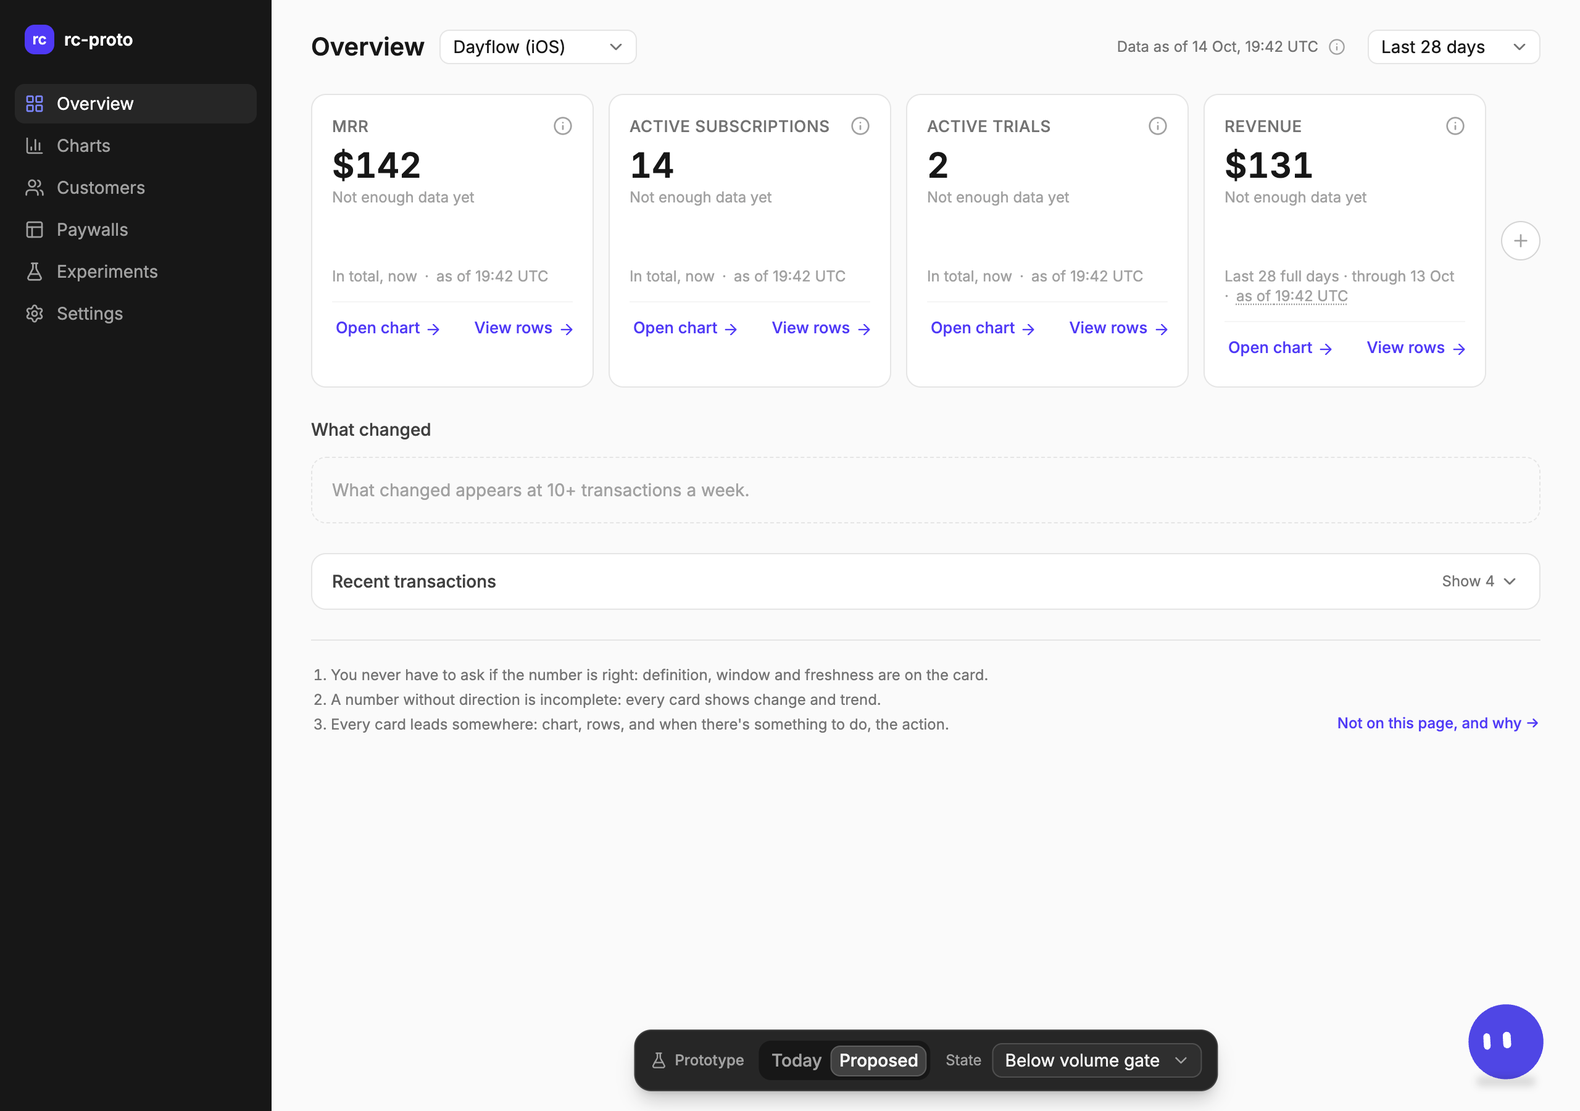
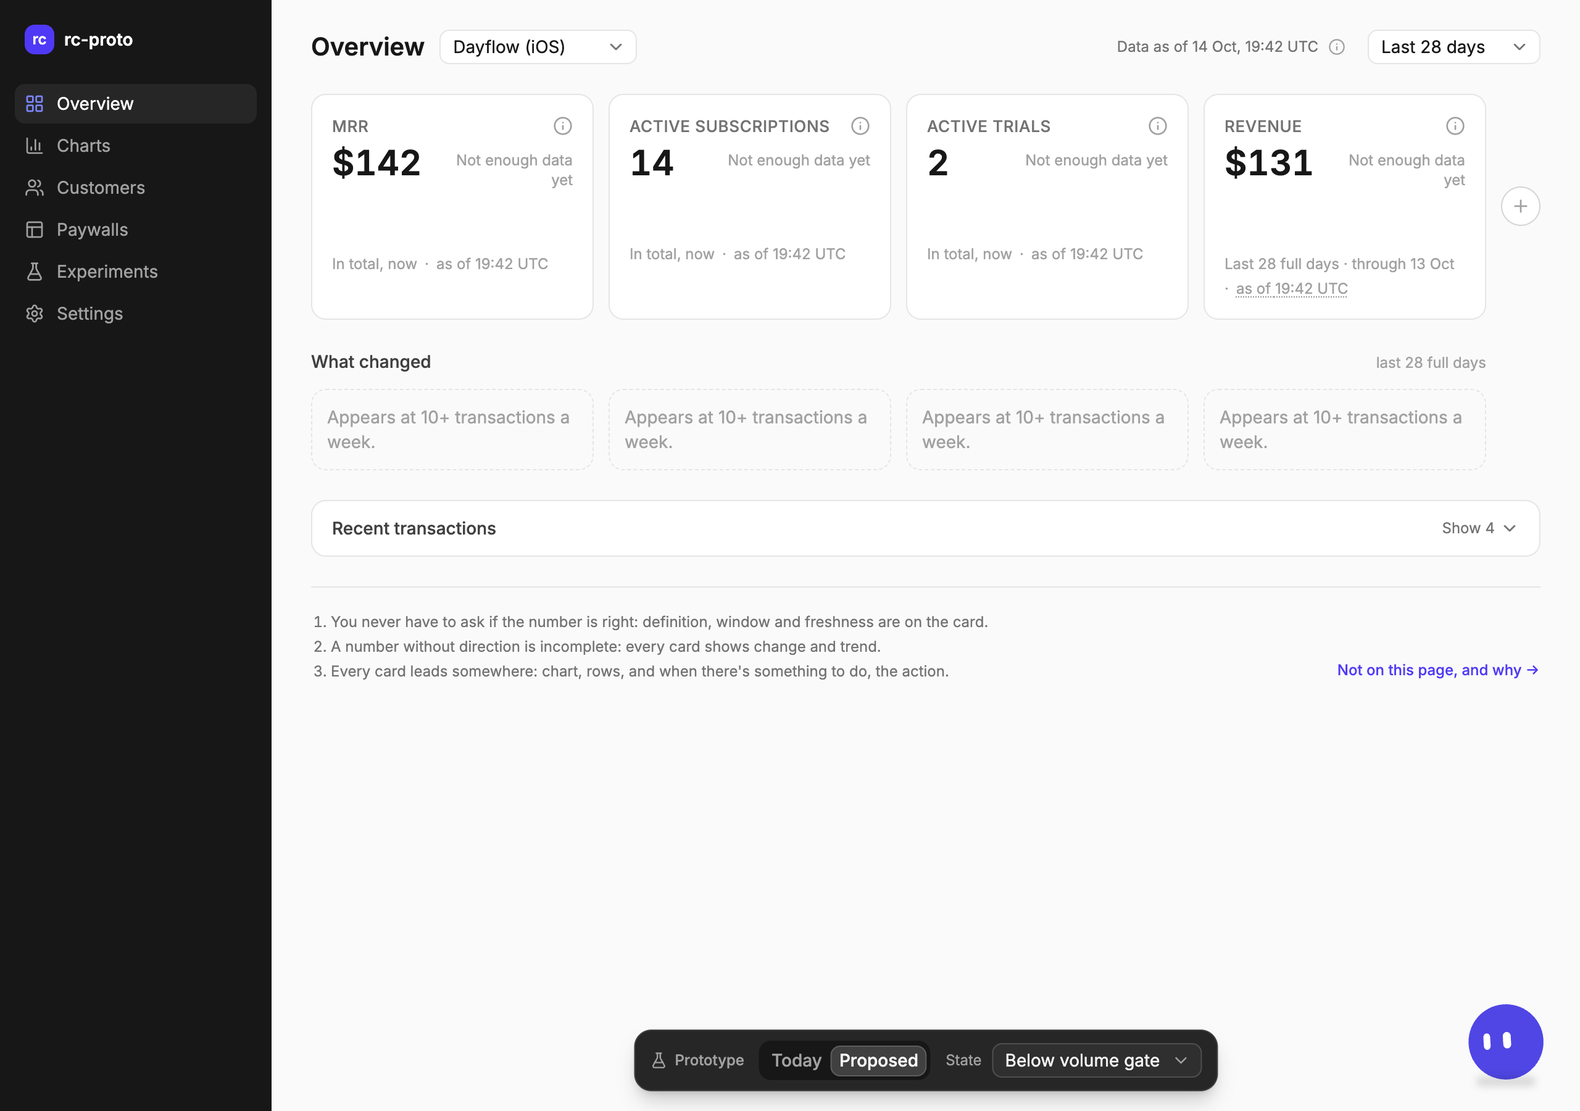
Proposed visual pass: What changed as four tiles under the cards, lighter KPI cards

diff --git a/src/components/Sections.tsx b/src/components/Sections.tsx
@@ -1,8 +1,8 @@
 import { useState } from "react";
-import { ArrowRight, BookOpen, ChevronDown, ChevronRight, CircleCheck, Circle, Sparkles, TrendingDown, TrendingUp } from "lucide-react";
-import { Badge } from "@/components/ui/badge";
+import { ArrowDown, ArrowRight, ArrowUp, BookOpen, ChevronDown, ChevronRight, CircleCheck, Circle, Minus, Sparkles } from "lucide-react";
 import { Button } from "@/components/ui/button";
 import { Card } from "@/components/ui/card";
+import { Tooltip, TooltipContent, TooltipTrigger } from "@/components/ui/tooltip";
 import { Collapsible, CollapsibleContent, CollapsibleTrigger } from "@/components/ui/collapsible";
 import { RicoAvatar } from "@/components/Rico";
 import { cn } from "@/lib/utils";
@@ -15,62 +15,79 @@ export function SectionTitle({ children }: { children: React.ReactNode }) {
   return <h2 className="text-sm font-medium text-neutral-700">{children}</h2>;
 }
 
-const ICONS = { up: TrendingUp, down: TrendingDown, book: BookOpen } as const;
 
-type ChangeItem = Overview["what_changed"][number];
+export type ChangeItem = Overview["what_changed"][number];
 
-// Two tiles side by side under the cards; anything past two waits behind "N more".
-// Each tile: tag, sentence, and bottom-right the action plus "Ask Rico why".
+const DIRECTION = {
+  up: { Icon: ArrowUp, tone: "text-emerald-600" },
+  down: { Icon: ArrowDown, tone: "text-rose-600" },
+  flat: { Icon: Minus, tone: "text-neutral-500" },
+  info: { Icon: BookOpen, tone: "text-neutral-500" },
+} as const;
+
+const tile = "rounded-[12px] border border-neutral-200 bg-white p-3";
+
+// One row of four compact tiles under the four default cards, one per card, in the same grid
+// (the caller adds the (+) spacer so the columns line up). Icon + tag, a sentence of at most
+// two lines, then the action link and Rico as the "Ask Rico why" button.
 export function WhatChanged({
-  data, onAction, onAskRico,
-}: { data: Overview; onAction: (item: ChangeItem) => void; onAskRico: (item: ChangeItem) => void }) {
-  const [expanded, setExpanded] = useState(false);
+  data, cardIds, labelFor, onAction, onAskRico,
+}: {
+  data: Overview;
+  cardIds: string[];
+  labelFor: (cardId: string) => string;
+  onAction: (item: ChangeItem) => void;
+  onAskRico: (item: ChangeItem) => void;
+}) {
   if (data.state === "new_project") return null;
   const gate = data.volume_gate;
   const gated = gate.current < gate.threshold_tx_per_week;
-  const shown = expanded ? data.what_changed : data.what_changed.slice(0, 2);
-  const more = data.what_changed.length - shown.length;
+  const byCard = new Map(data.what_changed.map((w) => [w.card_id, w]));
   return (
     <section className="flex flex-col gap-3" aria-labelledby="what-changed">
-      <SectionTitle><span id="what-changed">What changed</span></SectionTitle>
-      {gated ? (
-        <Card className={cn(panel, "border-dashed bg-transparent p-4")}>
-          <p className="text-sm text-neutral-400">What changed appears at {gate.threshold_tx_per_week}+ transactions a week.</p>
-        </Card>
-      ) : (
-        <>
-          <div className="grid grid-cols-1 gap-3 md:grid-cols-2">
-            {shown.map((item) => {
-              const Icon = ICONS[item.icon as keyof typeof ICONS];
-              const business = item.kind === "business";
-              return (
-                <Card key={item.text} className={cn(panel, "gap-3 p-4")}>
-                  <div className="flex items-center justify-between">
-                    <Icon className={cn("size-4", item.icon === "up" ? "text-emerald-600" : item.icon === "down" ? "text-rose-600" : "text-neutral-500")} />
-                    <Badge className={business ? "bg-indigo-50 text-indigo-700" : "bg-neutral-100 text-neutral-700"}>
-                      {business ? "Business" : "Definition / data"}
-                    </Badge>
-                  </div>
-                  <p className="flex-1 text-sm text-neutral-800">{item.text}</p>
-                  <div className="flex flex-wrap items-center justify-end gap-2">
-                    <Button variant="ghost" size="sm" className="text-neutral-600" onClick={() => onAskRico(item)}>
-                      <RicoAvatar size={16} /> Ask Rico why
-                    </Button>
-                    <Button variant="outline" size="sm" className="text-indigo-700" onClick={() => onAction(item)}>
-                      {item.link.label} <ArrowRight />
-                    </Button>
-                  </div>
-                </Card>
-              );
-            })}
-          </div>
-          {more > 0 && (
-            <button onClick={() => setExpanded(true)} className="self-start text-sm font-medium text-indigo-600 hover:underline">
-              {more} more
-            </button>
-          )}
-        </>
-      )}
+      <div className="flex items-baseline justify-between gap-3">
+        <SectionTitle><span id="what-changed">What changed</span></SectionTitle>
+        <span className="text-xs text-neutral-400">last 28 full days</span>
+      </div>
+      <div className="grid grid-cols-1 gap-3 md:grid-cols-2 lg:grid-cols-4">
+        {cardIds.map((id) => {
+          const item = byCard.get(id);
+          if (gated || !item) {
+            return (
+              <div key={id} className={cn(tile, "border-dashed bg-transparent")}>
+                <p className="text-sm text-neutral-400">Appears at {gate.threshold_tx_per_week}+ transactions a week.</p>
+              </div>
+            );
+          }
+          const { Icon, tone } = DIRECTION[item.direction as keyof typeof DIRECTION];
+          const business = item.kind === "business";
+          return (
+            <article key={id} aria-label={`${labelFor(id)}: ${item.text}`} className={cn(tile, "flex flex-col gap-1 transition-colors hover:border-neutral-300")}>
+              <div className="flex items-center justify-between">
+                <Icon className={cn("size-4", tone)} />
+                <span className={cn("rounded-full px-2 py-0.5 text-[11px] leading-none font-medium", business ? "bg-indigo-50 text-indigo-700" : "bg-neutral-100 text-neutral-700")}>
+                  {business ? "Business" : "Definition"}
+                </span>
+              </div>
+              <p className="line-clamp-2 text-sm leading-snug text-neutral-800">{item.text}</p>
+              <div className="mt-auto flex items-center justify-between gap-2">
+                <button onClick={() => onAction(item)} className="flex items-center gap-1 text-[13px] font-medium text-indigo-600 hover:underline">
+                  {item.action.label} <ArrowRight className="size-3.5" />
+                </button>
+                <Tooltip>
+                  <TooltipTrigger
+                    render={<button onClick={() => onAskRico(item)} aria-label="Ask Rico why" />}
+                    className="grid size-6 shrink-0 place-items-center rounded-full transition-transform hover:scale-110 focus-visible:ring-2 focus-visible:ring-indigo-300 focus-visible:outline-none"
+                  >
+                    <RicoAvatar size={24} />
+                  </TooltipTrigger>
+                  <TooltipContent>Ask Rico why</TooltipContent>
+                </Tooltip>
+              </div>
+            </article>
+          );
+        })}
+      </div>
     </section>
   );
 }

diff --git a/src/components/MetricCard.tsx b/src/components/MetricCard.tsx
@@ -1,13 +1,12 @@
-import { ArrowDownRight, ArrowRight, ArrowUpRight, Info, X } from "lucide-react";
+import { ArrowRight, Info, Minus, Triangle, X } from "lucide-react";
 import { Card } from "@/components/ui/card";
 import { Badge } from "@/components/ui/badge";
-import { Button } from "@/components/ui/button";
 import { Popover, PopoverContent, PopoverTrigger } from "@/components/ui/popover";
 import { Tooltip, TooltipContent, TooltipTrigger } from "@/components/ui/tooltip";
 import { Separator } from "@/components/ui/separator";
 import { Sparkline } from "@/components/Sparkline";
 import { cn } from "@/lib/utils";
-import { formatDelta, formatValue, presetDays, timeUtc } from "@/lib/format";
+import { formatValue, presetDays, timeUtc } from "@/lib/format";
 import type { CardData, Preset } from "@/types";
 
 type Props = {
@@ -46,7 +45,7 @@ export function MetricCard({ card, preset, window, notes, onRemove, asOf, gated,
       tabIndex={0}
       onClick={onOpenChart}
       onKeyDown={(e) => e.key === "Enter" && onOpenChart()}
-      className="relative cursor-pointer gap-0 rounded-[12px] border border-neutral-200 bg-white p-4 shadow-none ring-0 hover:border-neutral-300 focus-visible:outline-2 focus-visible:outline-indigo-600"
+      className="group/metric relative cursor-pointer gap-0 rounded-[12px] border border-neutral-200 bg-white p-4 shadow-none ring-0 hover:border-neutral-300 focus-visible:outline-2 focus-visible:outline-indigo-600"
     >
       {sample && !empty && (
         <span aria-hidden className="pointer-events-none absolute inset-0 flex items-center justify-center text-5xl font-semibold tracking-widest text-neutral-900/[0.04] uppercase select-none -rotate-12">
@@ -96,31 +95,35 @@ export function MetricCard({ card, preset, window, notes, onRemove, asOf, gated,
         </div>
       </div>
 
-      {/* Number, then the delta on its own line: four cards to a row leave no room side by side. */}
-      <div className="mt-2 flex flex-col gap-1">
+      {/* Number left, delta chip right on the same baseline; "vs prev" under the chip. */}
+      <div className="mt-1.5 flex items-start justify-between gap-2">
         <span className={cn("text-[28px] leading-none font-semibold tabular-nums", empty ? "text-neutral-300" : "text-neutral-900")}>
           {empty ? "—" : formatValue(p.value, card.unit)}
         </span>
         {empty ? (
-          <span className="text-xs text-neutral-400">No data yet</span>
+          <span className="pt-1 text-xs text-neutral-400">No data yet</span>
         ) : gated ? (
-          <span className="text-xs text-neutral-400">Not enough data yet</span>
+          <span className="pt-1 text-right text-xs text-neutral-400">Not enough data yet</span>
         ) : (
-          <span className={cn("flex items-center gap-0.5 text-[13px] font-medium whitespace-nowrap tabular-nums", tone)}>
-            {up ? <ArrowUpRight className="size-3.5" /> : down ? <ArrowDownRight className="size-3.5" /> : null}
-            {formatDelta(p.delta_pct)}
-            <span className="ml-1 font-normal text-neutral-400">vs prev {presetDays[preset]}d</span>
+          <span className="flex shrink-0 flex-col items-end pt-0.5">
+            <span className={cn("flex items-center gap-0.5 text-[13px] leading-none font-medium whitespace-nowrap tabular-nums", tone)}>
+              {up ? <Triangle className="size-2.5 fill-current" /> : down ? <Triangle className="size-2.5 rotate-180 fill-current" /> : <Minus className="size-3" />}
+              {Math.abs(p.delta_pct).toFixed(1)}%
+            </span>
+            <span className="mt-1 text-[11px] leading-none whitespace-nowrap text-neutral-400">vs prev {presetDays[preset]}d</span>
           </span>
         )}
       </div>
 
       {!empty && (
         <>
-          <div className={cn("mt-3 h-7", tone)}>
-            {!gated && <Sparkline points={p.sparkline} drawIn={sample} className="h-7 w-full" />}
+          <div className={cn("mt-2 h-9", tone)}>
+            {!gated && <Sparkline points={p.sparkline} drawIn={sample} className="h-9 w-full" />}
           </div>
 
-          <div className="mt-2 flex flex-wrap items-center gap-x-1.5 text-xs text-neutral-400">
+          {/* One muted line; on hover or focus the chart/rows links fade in over its right side.
+              Devices without hover keep the links visible, in the flow under the line. */}
+          <div className="relative mt-2 flex flex-wrap items-center gap-x-1.5 gap-y-1 text-xs text-neutral-400">
             <span>{window}</span>
             <span aria-hidden>·</span>
             {cached ? (
@@ -135,15 +138,20 @@ export function MetricCard({ card, preset, window, notes, onRemove, asOf, gated,
             ) : (
               <span>as of {timeUtc(asOf)}</span>
             )}
-          </div>
-
-          <div className="mt-3 flex gap-1 border-t border-neutral-100 pt-2">
-            <Button variant="ghost" size="sm" className="-ml-2 text-indigo-600 hover:text-indigo-700" onClick={(e) => { stop(e); onOpenChart(); }}>
-              Open chart <ArrowRight />
-            </Button>
-            <Button variant="ghost" size="sm" className="text-indigo-600 hover:text-indigo-700" onClick={(e) => { stop(e); onOpenRows(); }}>
-              View rows <ArrowRight />
-            </Button>
+            <span
+              className={cn(
+                "flex gap-3 bg-white pl-3 text-xs font-medium transition-opacity duration-150",
+                "absolute right-0 bottom-0 opacity-0 group-focus-within/metric:opacity-100 group-hover/metric:opacity-100",
+                "[@media(hover:none)]:static [@media(hover:none)]:basis-full [@media(hover:none)]:pl-0 [@media(hover:none)]:opacity-100",
+              )}
+            >
+              <button className="flex items-center gap-0.5 text-indigo-600 hover:underline" onClick={(e) => { stop(e); onOpenChart(); }}>
+                Open chart <ArrowRight className="size-3" />
+              </button>
+              <button className="flex items-center gap-0.5 text-indigo-600 hover:underline" onClick={(e) => { stop(e); onOpenRows(); }}>
+                View rows <ArrowRight className="size-3" />
+              </button>
+            </span>
           </div>
         </>
       )}

diff --git a/src/App.tsx b/src/App.tsx
@@ -43,7 +43,6 @@ export default function App() {
   const [explainerOpen, setExplainerOpen] = useState(false);
   const [experimentOpen, setExperimentOpen] = useState(false);
   const [extra, setExtra] = useState<OptionalCardId[]>([]);
-  const [ricoAsk, setRicoAsk] = useState<{ text: string; n: number } | null>(null);
   const [ricoOpen, setRicoOpen] = useState(false);
   const [ricoDraft, setRicoDraft] = useState("");
   const [showSample, setShowSample] = useState(false);
@@ -90,8 +89,10 @@ export default function App() {
     if (extra.length >= MAX_EXTRA) return toast(`Up to ${MAX_EXTRA} extra cards`);
     setExtra([...extra, id]);
   };
+  const labelFor = (id: string) => allCards.find((c) => c.id === id)?.label ?? id;
+  // "Ask Rico why" pre-fills the chat input with the tile's sentence; the user sends it.
   const askRico = (text: string) => {
-    setRicoAsk((a) => ({ text, n: (a?.n ?? 0) + 1 }));
+    setRicoDraft(text);
     setRicoOpen(true);
   };
 
@@ -193,15 +194,23 @@ export default function App() {
                   <AddCard variant="row" added={extra} onAdd={addCard} className="md:hidden" />
                 </section>
 
-                <WhatChanged
-                  data={data}
-                  onAction={(item) => {
-                    if (item.link.action === "experiment") return setExperimentOpen(true);
-                    if (item.link.action === "explainer" || !item.link.metric) return setExplainerOpen(true);
-                    openMetric(item.link.metric);
-                  }}
-                  onAskRico={(item) => askRico(item.text)}
-                />
+                {/* Same columns as the cards: an empty 32px slot stands in for (+) so tiles sit under their cards. */}
+                <div className="flex gap-3">
+                  <div className="min-w-0 flex-1">
+                    <WhatChanged
+                      data={data}
+                      cardIds={data.cards.map((c) => c.id)}
+                      labelFor={labelFor}
+                      onAction={(item) => {
+                        if (item.action.type === "experiment") return setExperimentOpen(true);
+                        if (item.action.type === "explainer") return setExplainerOpen(true);
+                        openMetric(labelFor(item.card_id));
+                      }}
+                      onAskRico={(item) => askRico(`${labelFor(item.card_id)}: ${item.text}`)}
+                    />
+                  </div>
+                  <div aria-hidden className="hidden w-8 shrink-0 md:block" />
+                </div>
 
                 <RecentTransactions rows={data.recent_transactions} collapsible />
                 <DesignRules onNotOnPage={() => setNotOnPageOpen(true)} />
@@ -245,7 +254,6 @@ export default function App() {
         onDraftChange={setRicoDraft}
         onOpenChart={(metric) => { setRicoOpen(false); openMetric(metric); }}
         onAddCard={(id) => { setRicoOpen(false); addCard(id); }}
-        ask={ricoAsk}
       />
       <SetupDrawer
         step={setupSteps[setupIndex]}

diff --git a/src/components/Drawers.tsx b/src/components/Drawers.tsx
@@ -50,12 +50,10 @@ function reply(q: string): Message {
 }
 
 export function RicoDrawer({
-  open, onOpenChange, draft, onDraftChange, onOpenChart, onAddCard, ask,
+  open, onOpenChange, draft, onDraftChange, onOpenChart, onAddCard,
 }: {
   open: boolean; onOpenChange: (o: boolean) => void; draft: string; onDraftChange: (v: string) => void;
   onOpenChart: (metric: string) => void; onAddCard: (id: OptionalCardId) => void;
-  /** A question sent from elsewhere on the page ("Ask Rico why"); `n` changes on every ask. */
-  ask?: { text: string; n: number } | null;
 }) {
   const [messages, setMessages] = useState<Message[]>([
     { from: "rico", text: "Hi, I'm Rico. Ask me about the numbers on this page, what changed, or your business." },
@@ -77,11 +75,6 @@ export function RicoDrawer({
     setTyping(true);
     timers.current.push(window.setTimeout(() => { setMessages((m) => [...m, reply(q)]); setTyping(false); }, 600));
   };
-
-  useEffect(() => {
-    if (ask) send(ask.text);
-    // eslint-disable-next-line react-hooks/exhaustive-deps
-  }, [ask?.n]);
 
   // iMessage: Rico's avatar sits by the last bubble of each of its runs; that bubble gets a tail.
   const lastOfRun = (i: number) => messages[i + 1]?.from !== messages[i].from && !(typing && i === messages.length - 1 && messages[i].from === "rico");

diff --git a/src/lib/format.ts b/src/lib/format.ts
@@ -8,7 +8,6 @@ export const formatValue = (value: number, unit: string) =>
   unit === "USD" ? usd.format(value) : unit === "percent" ? `${value}%` : count.format(value);
 export const formatMoney = (value: number) => usdCents.format(value);
 
-export const formatDelta = (pct: number) => `${pct > 0 ? "+" : pct < 0 ? "−" : "±"}${Math.abs(pct).toFixed(1)}%`;
 
 export const presetDays: Record<Preset, number> = { "7d": 7, "28d": 28, "90d": 90 };
 export const periodLabel = (p: Preset) => `Last ${presetDays[p]} days`;

diff --git a/README.md b/README.md
@@ -28,8 +28,10 @@ Push to `main` deploys to Netlify.
   phone), each carrying its own window ("In total, now" / "Last 28 full days · through
   13 Oct"). **(+)** at the row's end (a dashed "Add a card" row on a phone) adds up to two of
   New customers, Active customers, Trial conversion, Churn, Realized LTV, each removable,
-  in memory only. **What changed** as two tiles (tag, sentence, "Ask Rico why" and the
-  action), the rest behind "1 more"; below the volume gate one muted tile. Recent
+  in memory only. **What changed** (round 8): one row of four compact tiles in the same
+  columns as the four cards, each under its card (icon + tag, a sentence of at most two
+  lines, the action link, and a 24px Rico button that pre-fills the chat with the sentence);
+  below the volume gate four muted tiles. Recent
   transactions (collapsed); footer with the 3 design rules and "Not on this page, and why".
 - **Rico mascot** (round 5): an indigo blob whose eyes are holes in the body, drawn with the
   [bloub](https://github.com/jeremy-prt/bloub) engine (MIT, vendored in `src/vendor/bloub`,
@@ -45,7 +47,7 @@ Push to `main` deploys to Netlify.
   bubble, and a mocked chat: replies after 600ms, keyed on "new/active customers" (offers
   "Add card", same logic as (+)), "mrr", "trial", "right/correct/trust", else a default. MRR
   and trial replies have a button to the chart modal. "Ask Rico why" on a What changed tile
-  opens the chat with the tile's sentence as your message.
+  pre-fills the chat input with "<card>: <sentence>" (round 8; it used to send it).
 - **New project**, two separate designs with separate data and state:
   - **Today** (round 7): RevenueCat's real onboarding block from `onboarding` in
     new_project.json: progress ring, "Let's get you ready… (2 of 6)", "Mark all as done",
@@ -58,10 +60,11 @@ Push to `main` deploys to Netlify.
     SDK step, "Open <flow>" (toast stub) and a "Mark done" checkbox that updates the list.
     The 4 cards stay empty ("—", "No data yet") until "Show sample data" is on; then they fill
     with watermarked sample values and the sparklines draw in (600ms, ease-out).
-- **Card**: label, (i) definition popover (Active subscriptions adds incl./excl. cancelled
-  counts), big number, delta vs previous period (Churn going up is red),
-  28-point sparkline in the delta color, window and freshness line, Open chart / View rows.
-  Clicking anywhere on the card opens the chart.
+- **Card** (round 8, lighter): label and (i) definition popover (Active subscriptions adds
+  incl./excl. cancelled counts); big number with a delta chip on the right ("▲ 5.9%", "vs
+  prev 28d" under it; Churn going up is red); a 36px sparkline; one muted window and
+  freshness line. "Open chart / View rows" fade in on hover or focus (always shown on touch
+  devices). Clicking anywhere on the card opens the chart.
 - **Today**: the "before": Rico bar, 6 plain cards, recent transactions table (unchanged;
   New and Active customers come from `optional_cards` there). New project adds the
   onboarding block on top and shows every card at 0.
@@ -110,6 +113,11 @@ Stack: Vite + React 19 + TypeScript, Tailwind v4, shadcn/ui on **Base UI** primi
 - **New project Now row**: "Show sample data" switch sits left of "Data as of".
 - **Below volume gate**: deltas and sparklines hidden with "Not enough data yet".
 - **Default Rico reply** now says "the numbers on this page" instead of "the six numbers".
+- **Card height** is ~177px at 1280px, not the ~150px target: in a quarter-width card
+  Revenue's line ("Last 28 full days · through 13 Oct · as of 19:42 UTC") needs two lines,
+  and the row keeps one height. With a one-line window the cards come to ~157px.
+- **What changed tiles** carry a `card_id`; the row is laid out with an empty 32px slot where
+  (+) sits above, so each tile shares its card's column exactly.
 - **"Card swapping / custom layout"** stays in "Not on this page": (+) adds from a fixed list
   of five, it doesn't rearrange or swap the defaults.
 - **Screenshot numbering** follows the briefs: 08 (+) picker, 09 What changed tiles, 10 Today

diff --git a/.ultra/todo.md b/.ultra/todo.md
@@ -38,3 +38,8 @@
 - [x] Proposed: block opens the task drawer; Mark as done shared; phone stacks
 - [x] Screenshots 05, 06, 10 (Rico shots to 12, 13), README, deploy
 - [x] Proposed New project back to the round 2 setup checklist; onboarding block is Today-only
+
+## Round 8: visual pass on Proposed (40 min box)
+- [x] What changed: 4 tiles aligned under the 4 cards, Rico button pre-fills the chat, gated tiles
+- [x] Lighter KPI cards: delta chip, 36px sparkline, hover links
+- [x] Screenshots 02, 03, 09; README; deploy
